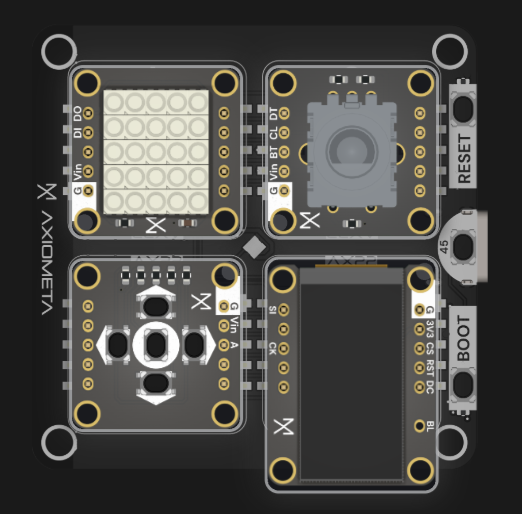
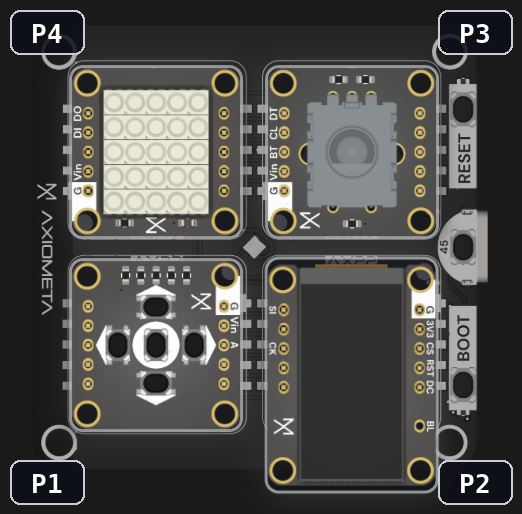
Add readme for hoomans + label the ports on the diagram

diff --git a/README.md b/README.md
@@ -1,11 +1,40 @@
-# AlanCartridge
-Axiometa x Anthropic 'Jul 2026 Hackathon Project
+# INFINITE CARTRIDGE
 
+*An endless Game Boy, built over a weekend for the Axiometa × Anthropic × Unicorn Mafia hackathon.*
+
+[![INFINITE CARTRIDGE on the Axiometa Genesis Mini](docs/console.jpg)](https://x.com/poltarakii/status/2078947877930295725)
+
+**[▶ Watch the demo here!](https://x.com/poltarakii/status/2078947877930295725)**
+
+The C++ engine is fixed, but everything above it is generative. Levels never repeat: not for you, not for anyone else playing (inspired by No Man's Sky planets). An ontology randomises the games: 13,662 discrete skeletons × up to 10⁷ parameter variations works out to billions of games. It rolls the dice and hands the spec to three Claude (Sonnet) agents: a **designer**, a **programmer** and a **composer**. The designer picks 8×8 sprites and lays out the level as an ASCII matrix; the programmer writes the game in Arduino C; the composer writes MIDI, converted to PT3 and played during the game on an AY-3-8912, the OG analog sound chip from the '80s ZX Spectrum. While you play one round, the agents are already implementing the next one. Win or lose, it flashes you a new game the moment you finish.
+
+## How it works
+
+- **Ontology** (`ontology.py`): Python rolls genre, objective, threat, twist, pace, weighted setting, avatar, 25% wildcard and numeric params. Anti-repeat memory bends every roll, and games are winnable by construction (10 lives, capped difficulty ramps, goals sized to the spawn economy).
+- **Designer**: skins the roll with a title, a blurb, a sprite cast drawn from a ~360-sprite hand-named atlas, and a 20×8 ASCII level map (collisions, terrain, spawn points).
+- **Programmer**: writes ~150 lines of Arduino C++ against `ENGINE_PROMPT.md`, which is simultaneously the human docs and, verbatim, the system prompt. Every game passes a static contract check, a real `arduino-cli` compile, and up to 3 repair rounds with the compiler's errors fed back.
+- **Composer**: writes a strict-JSON score (3 voices + drums on a 16th-note grid) → MIDI → `.pt3`, uploaded over HTTP to a Raspberry Pi driving the AY chip, which plays each game's theme the moment it flashes.
+- **The loop** (`main.py --loop`): a pipelined producer authors game N+1 while game N compiles, keeps a 10-game buffer, and flashes prebuilt binaries in ~10 s on every game-over.
+- **Firmware** (`forge_sketch/engine.h`): the whole console, from the 160×80 ST7735 framebuffer and PICO-8 palette to the d-pad + encoder input, the NeoPixel lives matrix and the 30 fps shell. A generated game is just `gameInit` / `gameUpdate` / `gameDraw`.
+
+## Running it
+
+```bash
+pip install -r requirements.txt
+arduino-cli core update-index && arduino-cli core install esp32:esp32
+arduino-cli lib install "Adafruit GFX Library" "Adafruit ST7735 and ST7789 Library" "Adafruit NeoPixel"
+cp example.env .env        # set ANTHROPIC_API_KEY (+ ZX_SPECTRUM_CHIP_URL for music)
+
+python main.py --theme "crabs in space"   # forge one game and flash it
+python main.py --loop                     # endless mode: a fresh game on every game-over
+python main.py --pregen 5                 # bank games into library/ without flashing
+python main.py --flash library/<cart>     # reflash a banked game
+python main.py --list                     # browse the library
+python gui.py                             # web GUI over the same verbs
 ```
-INFINITE CARTRIDGE forge
-  python main.py --theme "crabs in space"        generate one game and flash it
-  python main.py --loop                          forge next on every game-over
-  python main.py --pregen 5                      pre-generate 5 games
-  python main.py --flash library/%game_name%     flash a game
-  python main.py --list                          cartridge catalogue
-```
+
+## Hardware
+
+An [Axiometa](https://axiometa.io) Genesis Mini handheld (ESP32-S3): TFT screen, d-pad, encoder and a 5×5 LED matrix as snap-together modules. Music plays on a real AY-3-8912 behind a small HTTP server. No music box configured = games ship silent.
+
+![Genesis Mini ports: P1 d-pad, P2 TFT screen, P3 encoder, P4 LED matrix](docs/genesis-mini-board.png)